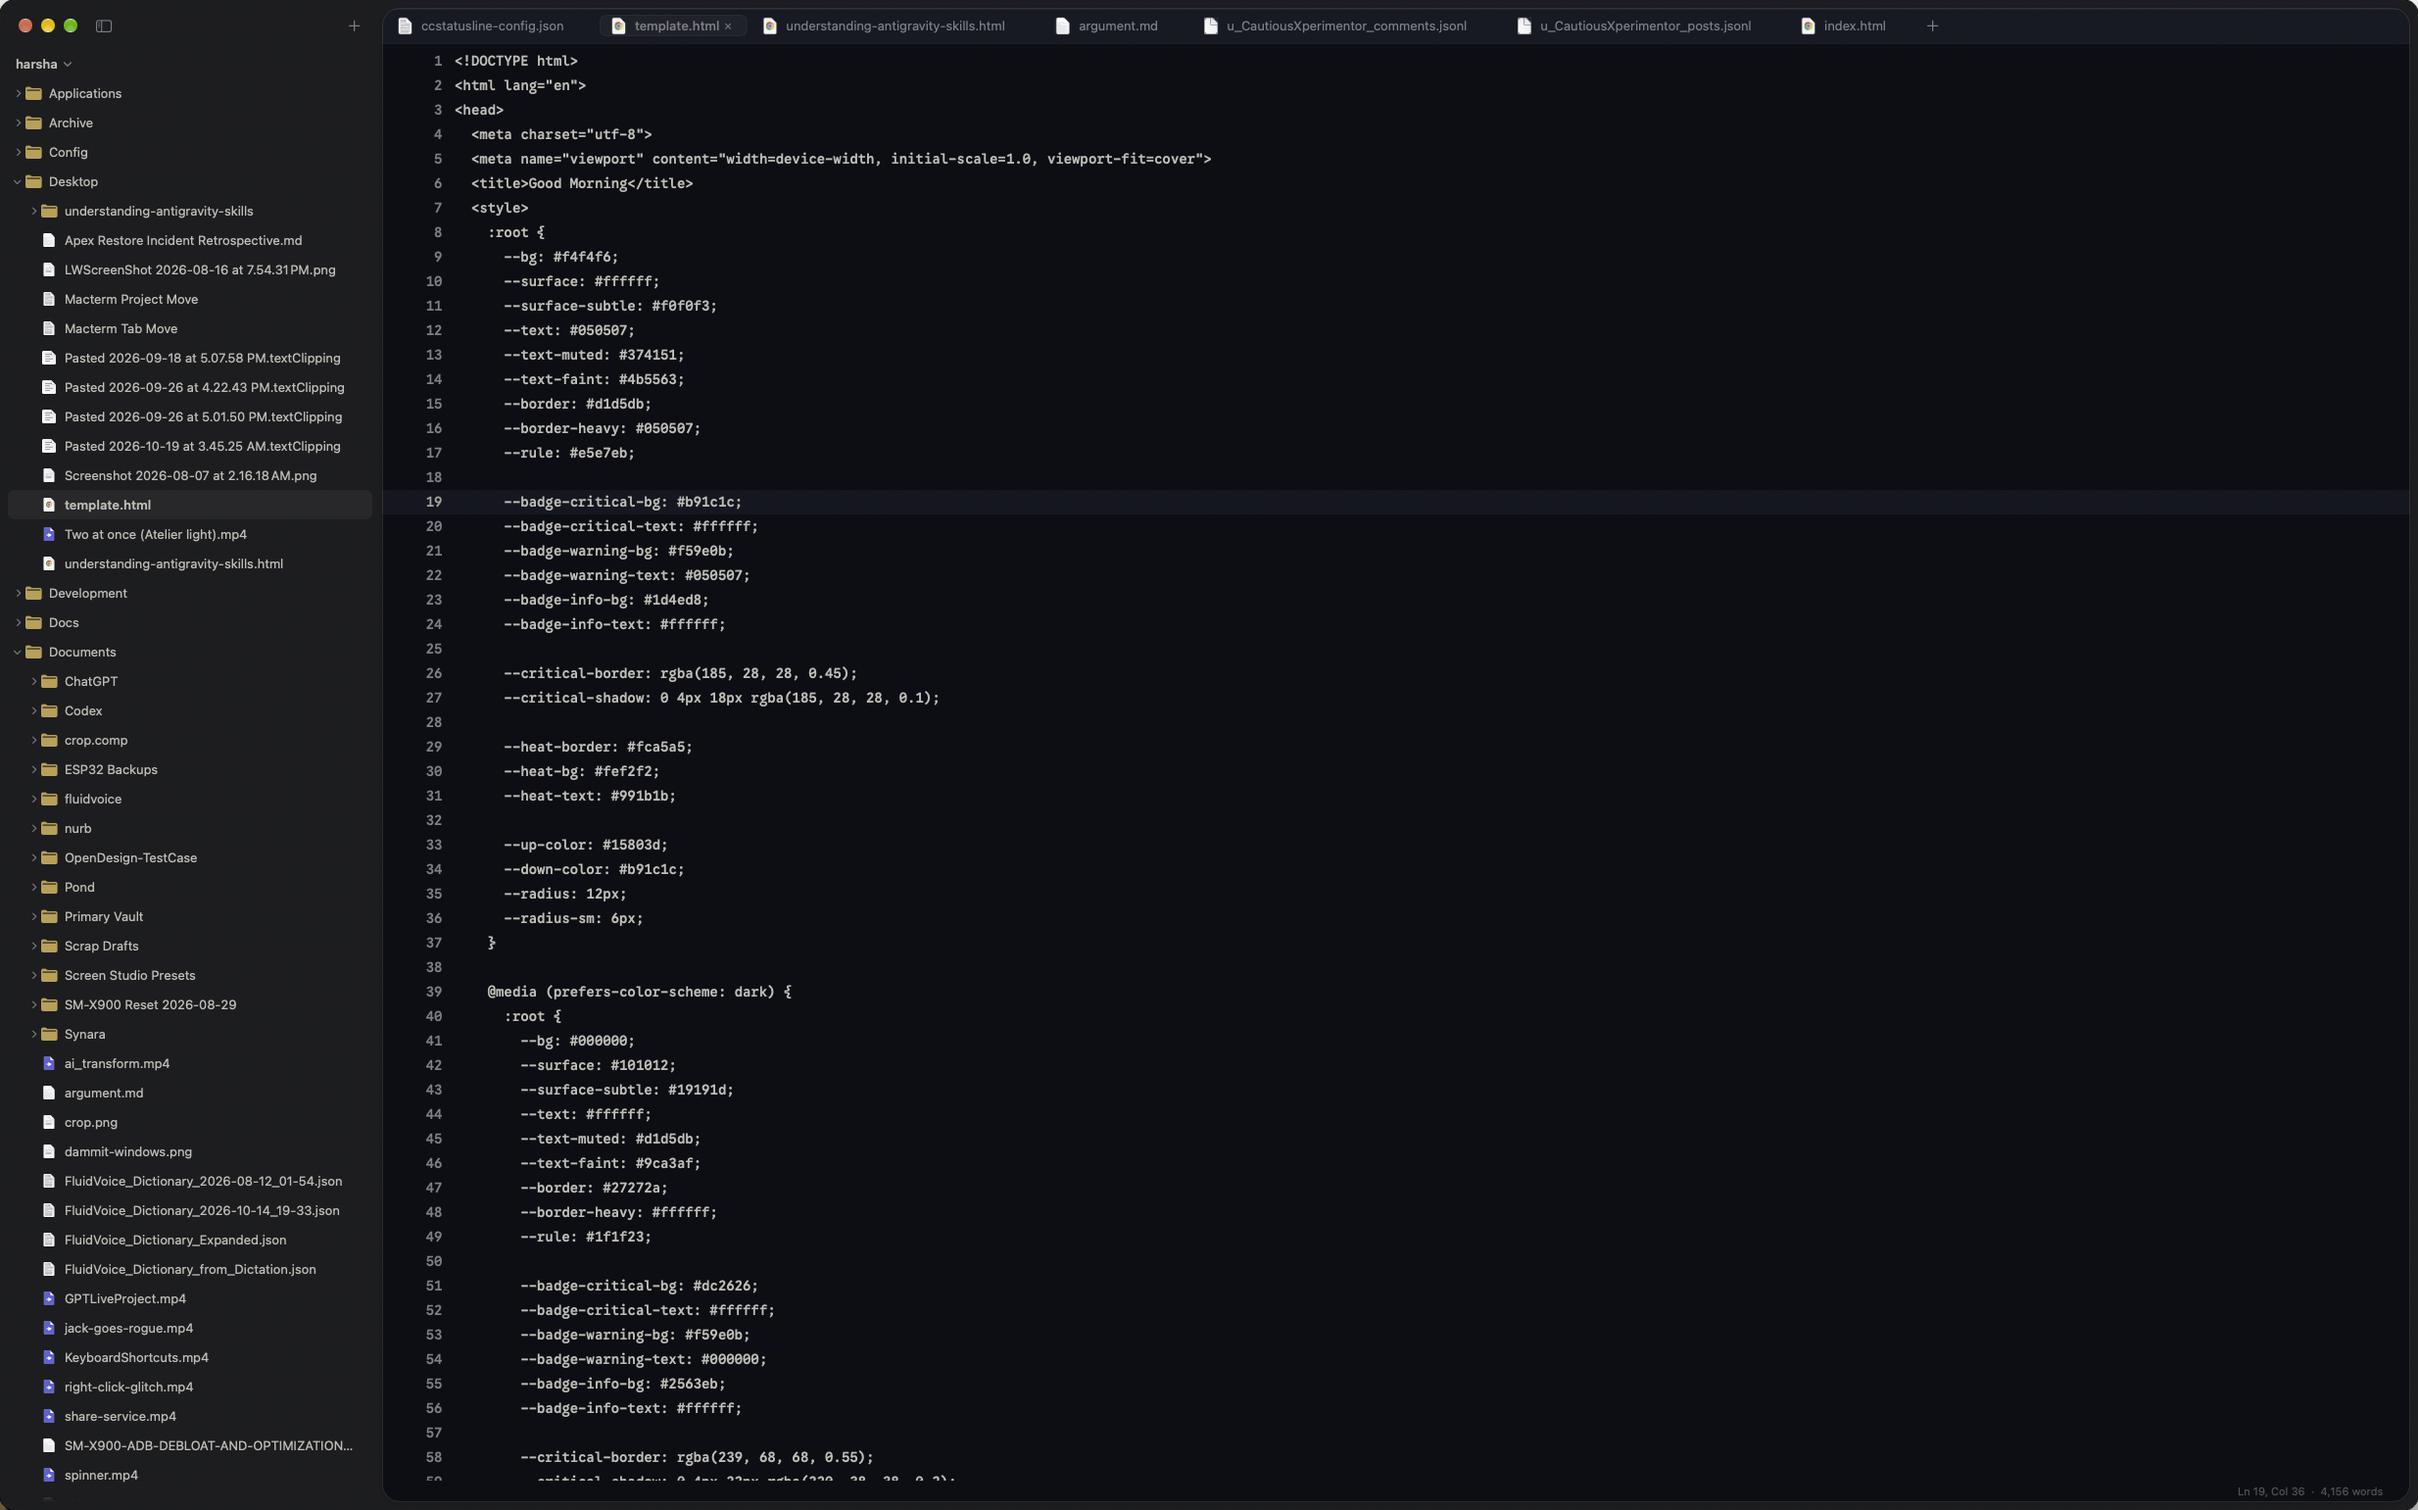
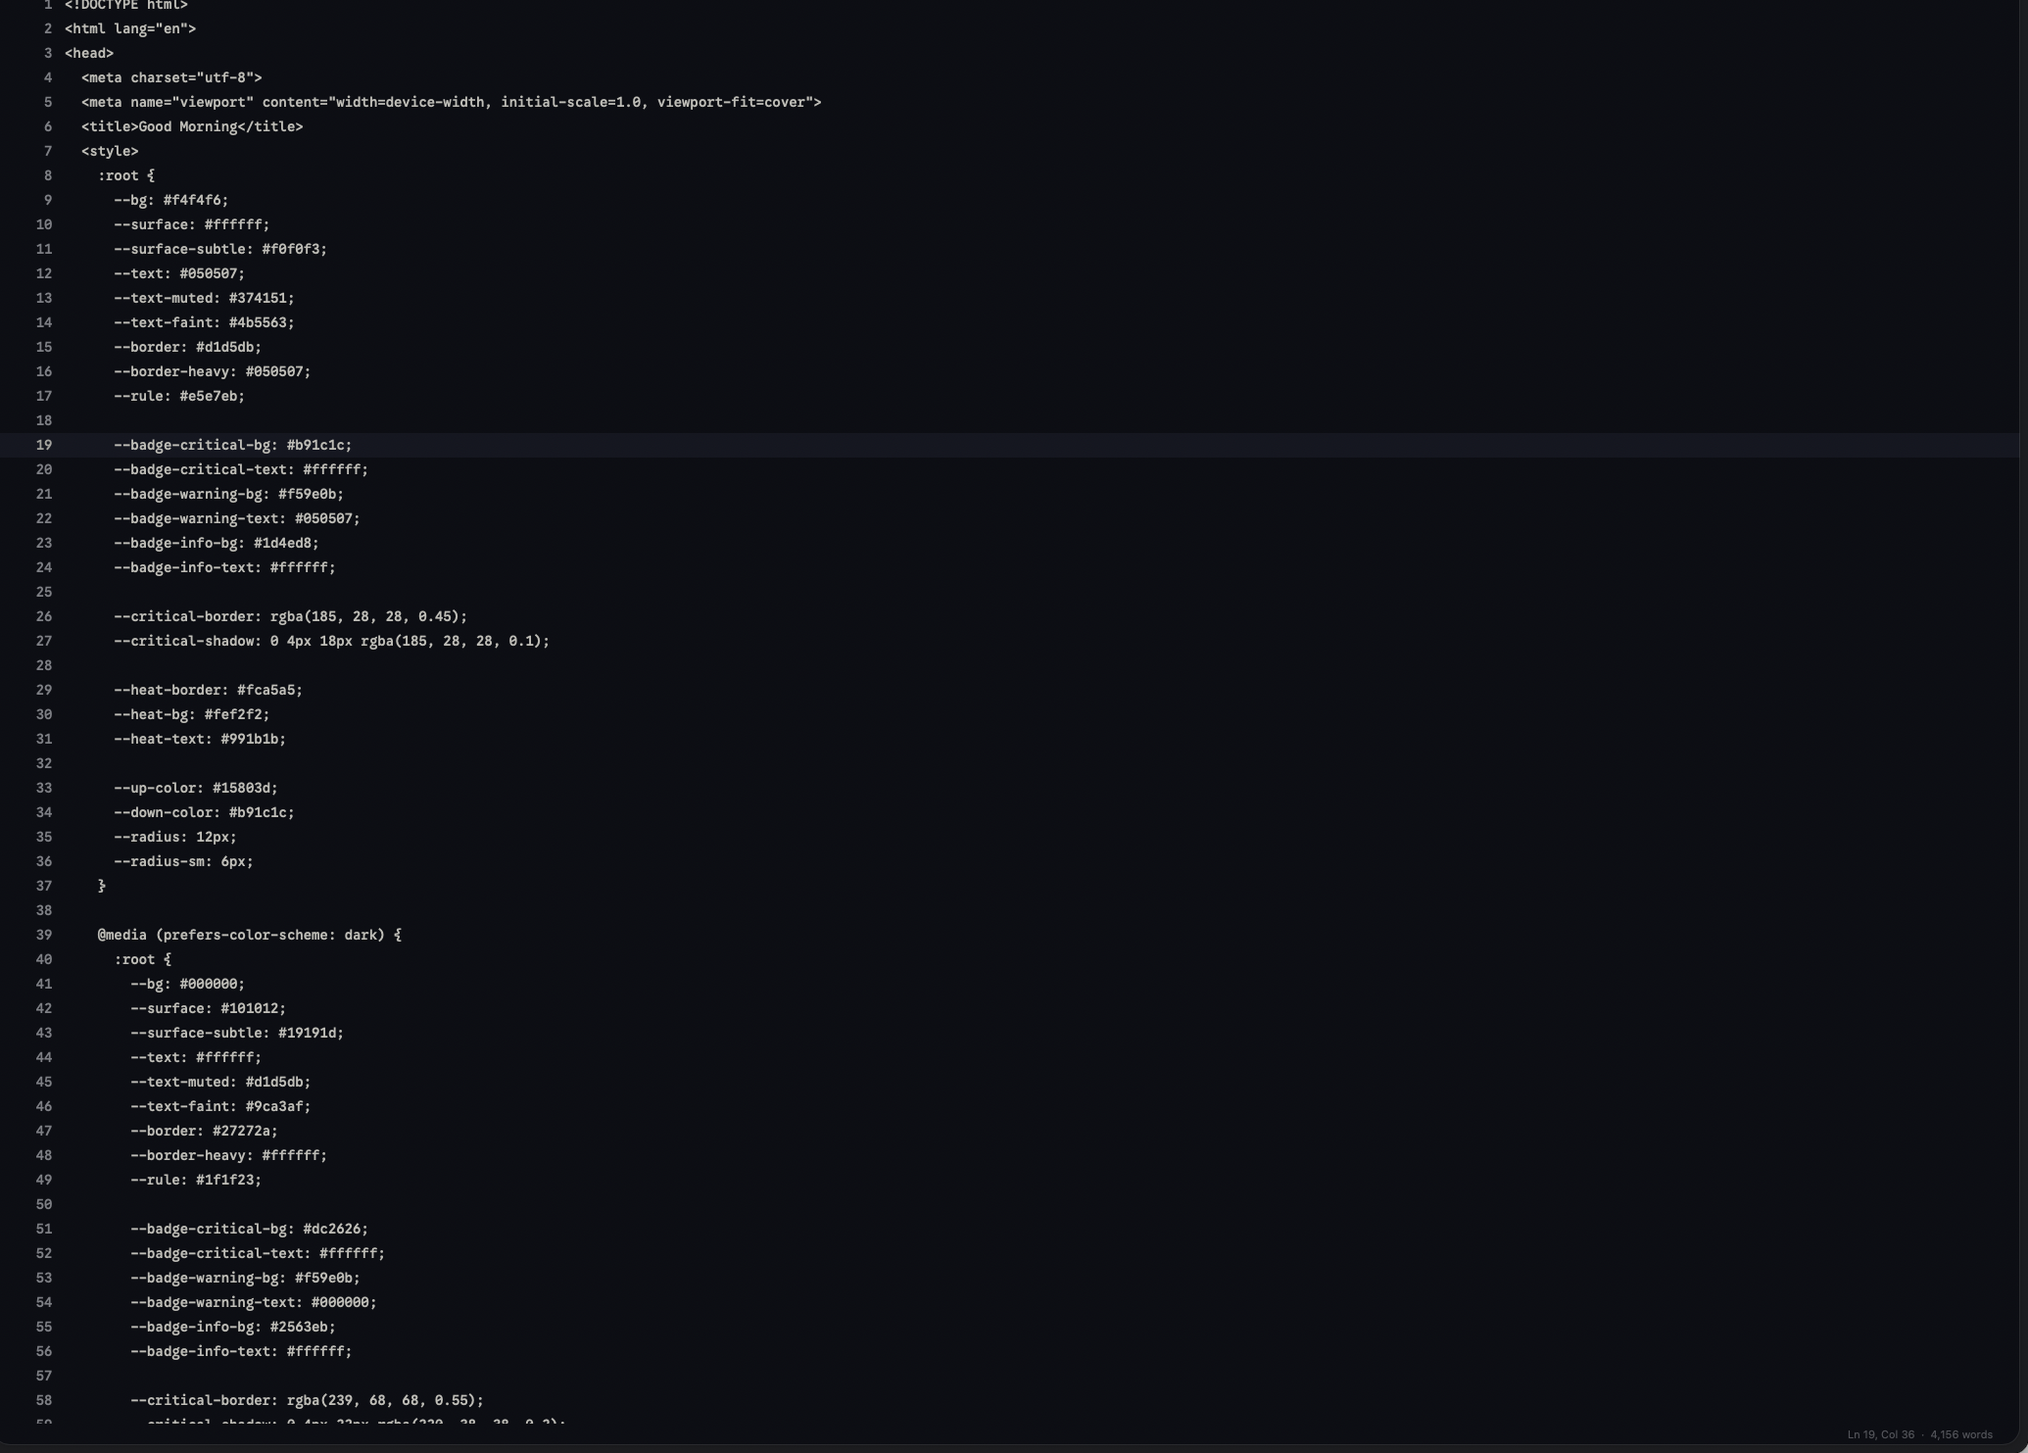
Package Zag for public open-source release with a DMG installer (zag#0ex9)

diff --git a/dmg/settings.py b/dmg/settings.py
@@ -1,0 +1,25 @@
+# dmgbuild settings for Zag.dmg: Zag.app beside an Applications shortcut on a
+# warm Paper card background. Invoked via scripts/dmg.sh from the repo root.
+import os.path
+
+app = defines["app"]  # noqa: F821 (dmgbuild injects defines)
+
+format = "UDZO"
+filesystem = "HFS+"
+files = [app]
+symlinks = {"Applications": "/Applications"}
+
+background = "dmg/background.png"
+window_rect = ((200, 120), (660, 400))
+default_view = "icon-view"
+show_status_bar = False
+show_tab_view = False
+show_toolbar = False
+show_pathbar = False
+show_sidebar = False
+icon_size = 128
+text_size = 12
+icon_locations = {
+    os.path.basename(app): (180, 168),
+    "Applications": (480, 168),
+}

diff --git a/README.md b/README.md
@@ -1,26 +1,93 @@
 # Zag
 
-A tiny native text editor for macOS on Apple Silicon, written in Zig, with tabs, split cards and
-a file sidebar. The release binary is about 300 KB and links only Apple's own frameworks and
-libc.
+Zag is a small native text editor for macOS on Apple Silicon, written from scratch in Zig. The release binary is ~360 KB (306 KB packaged as a compressed `.dmg`) and links only Apple's system frameworks (`AppKit`, `QuartzCore`, `CoreText`, `CoreGraphics`, `CoreFoundation`) and `libc`.
 
-![Zag](docs/assets/mxc3-after-light.png)
+![Zag](docs/assets/zag-hero.png)
 
-## Build
+## Highlights
 
-Needs Zig 0.17 and macOS 15 or later.
+- **Tiny and instant.** Zag draws straight onto a `CGContext` with `CoreText` glyph runs on a monospace grid and reads and writes files directly through `libc`, with no embedded runtime, webview, or third-party dependencies.
+- **Cards, splits, and tabs.** Split any window side by side (`⌘D`) or top and bottom (`⇧⌘D`), drag tabs to reorder or split cards, and browse open folders in the collapsible file sidebar (`⌘B`).
+- **Animated motion.** Caret glides, spring-driven tab and sidebar highlights, smooth split folds, and theme crossfades animate every layout change.
+- **Quick Open and Command Palette.** Jump to any file in the open folder with fuzzy matching (`⌘P`) or run any menu command from the keyboard (`⌘K`).
+- **Live Markdown Preview.** Render the active Markdown file in a companion preview window (`⇧⌘M`) with synchronized scrolling, lists, code blocks, links, and tables.
+- **Focused writing modes.** Turn on Typewriter Scrolling, Focus dimming (line, sentence, or paragraph), Zen Mode (`⌃⌘Z`), or Late-Night Focus (`⌃⌘N`).
+- **Safe saves and crash-proof drafts.** Zag writes a sibling temporary file, copies permissions, extended attributes, and Finder tags, `fsync`s, and swaps atomically. Zag autosaves untitled tabs to `~/Library/Application Support/ze/Drafts` and restores open windows and tabs on launch.
+- **VoiceOver and Increase Contrast.** Zag exposes native macOS accessibility elements on demand when VoiceOver runs and sharpens borders and muted ink when Increase Contrast is active.
+
+## Install
+
+Requires **macOS 15 (Sequoia) or newer** on **Apple Silicon (`arm64`)**.
+
+1. Download `Zag-0.1.0-arm64.dmg` from the latest release.
+2. Open the disk image and drag **Zag** into **Applications**.
+3. If macOS Gatekeeper blocks the first launch of an unnotarized build, clear the quarantine attribute once in Terminal and open Zag:
 
 ```sh
-zig build --release          # zig-out/bin/zag
-zig build test
-scripts/dev.sh [files...]    # builds "Zag Dev" and starts it in the background
-scripts/ship.sh              # Ship it: installs the stable Zag at ~/Applications/Zag.app
+xattr -dr com.apple.quarantine /Applications/Zag.app
+open /Applications/Zag.app
 ```
 
-Stable and dev builds are explained in [AGENTS.md](AGENTS.md).
+## Build from source
 
-The guide is in [docs/guide](docs/guide/index.md).
+Requires **Zig 0.17.0+** and Xcode Command Line Tools (with `xcrun actool` from Xcode when compiling `AppIcon.icon` for the `.app` bundle).
+
+```sh
+# Build the stripped ReleaseSmall binary (zig-out/bin/zag)
+zig build --release
+
+# Run the editing, buffer, syntax, tree, finder, file, and settings tests
+zig build test
+
+# Build Zag.app (zig-out/Zag.app)
+./scripts/bundle.sh stable
+
+# Build the compressed macOS disk image (zig-out/Zag-0.1.0-arm64.dmg)
+./scripts/dmg.sh
+```
+
+By default on outside machines, `scripts/bundle.sh` and `scripts/dmg.sh` apply an ad-hoc code signature (`-`). Pass `CODESIGN_IDENTITY` to sign with an Apple Developer ID or local certificate:
+
+```sh
+CODESIGN_IDENTITY="Developer ID Application: Your Name (TEAMID)" ./scripts/dmg.sh
+```
+
+## Keyboard shortcuts
+
+| Action | Shortcut |
+| --- | --- |
+| New tab / New window | `⌘T` / `⌘N` |
+| Open file or folder | `⌘O` |
+| Quick Open file in folder | `⌘P` |
+| Command Palette | `⌘K` |
+| Save / Save As | `⌘S` / `⇧⌘S` |
+| Close tab / Close window | `⌘W` / `⇧⌘W` |
+| Split right / Split down | `⌘D` / `⇧⌘D` |
+| Focus previous / next card | `⌥⌘←` / `⌥⌘→` |
+| Previous / next tab | `⇧⌘[` / `⇧⌘]` (or `⌃⇧⇥` / `⌃⇥`) |
+| Toggle sidebar | `⌘B` |
+| Find / Find and Replace | `⌘F` / `⌥⌘F` |
+| Go to Line | `⌘L` |
+| Toggle Comment | `⌘/` |
+| Format JSON | `⌥⌘J` |
+| Soft Wrap | `⌥Z` |
+| Markdown Preview | `⇧⌘M` |
+| Zen Mode / Late-Night Focus | `⌃⌘Z` / `⌃⌘N` |
+| Font panel / Bigger / Smaller / Actual Size | `⇧⌘T` / `⌘=` / `⌘-` / `⌘0` |
+| Settings (`config.toml`) | `⌘,` |
+
+## Settings and themes
+
+Press `⌘,` to open `~/.config/zag/config.toml` inside Zag. Zag watches the file and applies saved edits right away across every open window.
+
+Built-in light themes include **Paper** (default), **Ayu Light**, and **One Light**. Built-in dark themes include **Ink** (default), **Ayu Dark**, **One Dark**, and **Black** (OLED). Override any individual theme slot with `light.<slot> = "#RRGGBB"` or `dark.<slot> = "#RRGGBB"`.
+
+Read the full user manual in [docs/guide/index.md](docs/guide/index.md). Design notes on binary size and animation appear in [docs/decisions/tiny-binary.md](docs/decisions/tiny-binary.md) and [docs/decisions/motion.md](docs/decisions/motion.md).
+
+## Acknowledgments
+
+See [THIRD_PARTY_NOTICES.md](THIRD_PARTY_NOTICES.md) for acknowledgments and inspirations.
 
 ## License
 
-MIT, see [LICENSE](LICENSE).
+MIT License. See [LICENSE](LICENSE).

diff --git a/CHANGELOG.md b/CHANGELOG.md
@@ -1,0 +1,18 @@
+# Changelog
+
+## 0.1.0 (2026-11-11)
+
+First public open-source release of Zag for macOS 15+ on Apple Silicon.
+
+### Features
+
+- Native `AppKit`, `CoreGraphics`, and `CoreText` editor in a ~360 KB stripped binary with zero external dependencies.
+- Rounded editor cards with horizontal and vertical splits (`⌘D`, `⇧⌘D`), draggable tabs, and a collapsible folder sidebar (`⌘B`).
+- Fuzzy Quick Open (`⌘P`), Command Palette (`⌘K`), Go to Line (`⌘L`), and incremental Find and Replace (`⌘F`, `⌥⌘F`).
+- Built-in syntax highlighting for Zig, C/C++/Objective-C, Java, Kotlin, C#, JavaScript/TypeScript, Python, Rust, Go, Swift, Shell, Ruby, Lua, JSON/JSONL, TOML, YAML, INI, CSS, HTML/XML/SVG, and Markdown.
+- Live Markdown Preview window (`⇧⌘M`) with GFM table alignment, relative link resolution, code blocks, and scroll sync.
+- Built-in JSON formatter (`⌥⌘J`), auto-closing bracket and quote pairs, line commenting (`⌘/`), and CRLF/LF preservation.
+- Paper, Ayu Light, One Light, Ink, Ayu Dark, One Dark, and Black themes with live-reloading `~/.config/zag/config.toml` overrides, Zen Mode (`⌃⌘Z`), Typewriter Scrolling, Focus dimming, and Late-Night Focus (`⌃⌘N`).
+- Atomic file saves that preserve POSIX modes, extended attributes, and ACLs, external modification detection, session window/tab restoration, and background untitled draft autosaving.
+- On-demand macOS VoiceOver accessibility tree and Increase Contrast support.
+- Standalone `scripts/dmg.sh` installer builder producing a compressed `Zag-0.1.0-arm64.dmg`.

diff --git a/THIRD_PARTY_NOTICES.md b/THIRD_PARTY_NOTICES.md
@@ -1,0 +1,8 @@
+# Third-Party Notices and Acknowledgments
+
+Zag links only macOS system frameworks (`AppKit`, `QuartzCore`, `CoreGraphics`, `CoreText`, `CoreFoundation`, `Foundation`) and `libSystem` (`libc` / `libobjc`), and ships no third-party source code or runtime libraries.
+
+## Inspirations
+
+- **[Zikky](https://github.com/wielenmaker/Zikky)** by wielenmaker (MIT License) inspired several early product ideas for building a native Zig editor on macOS. Zag implements its own `objc_msgSend` bridge, `CoreText`/`CoreGraphics` renderer, gapless buffer, lexer, and UI from scratch.
+- **Ayu** and **Atom One** color palettes inspired Zag's built-in `ayu-light`, `ayu-dark`, `one-light`, and `one-dark` color schemes in `src/settings.zig`.
